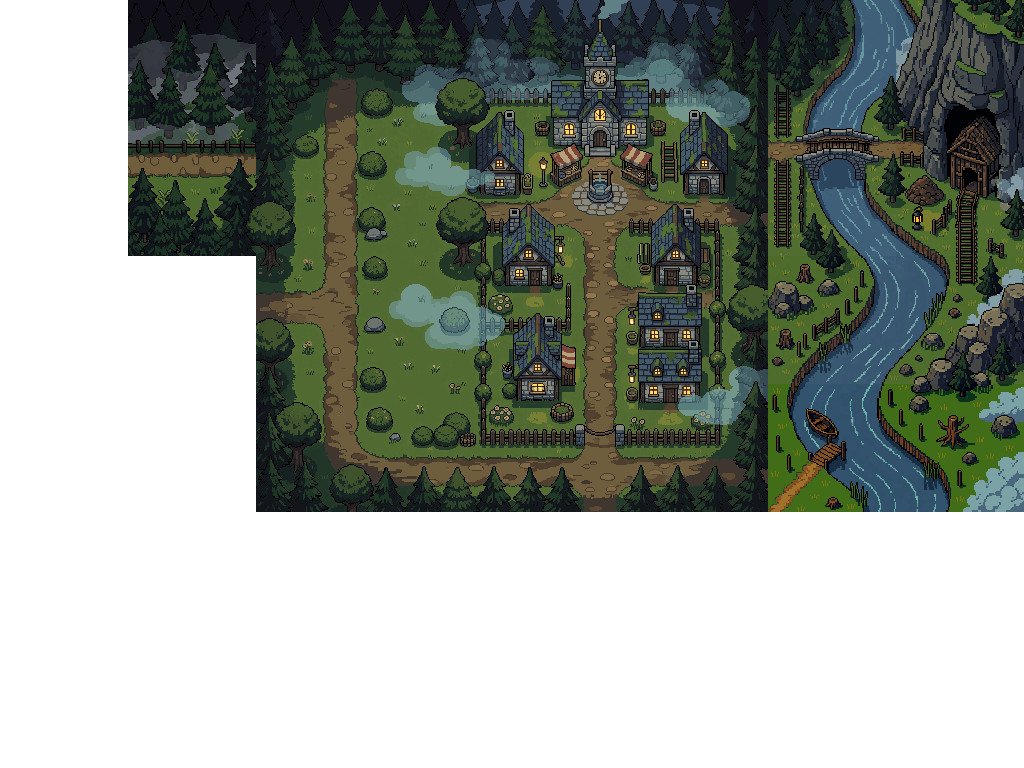
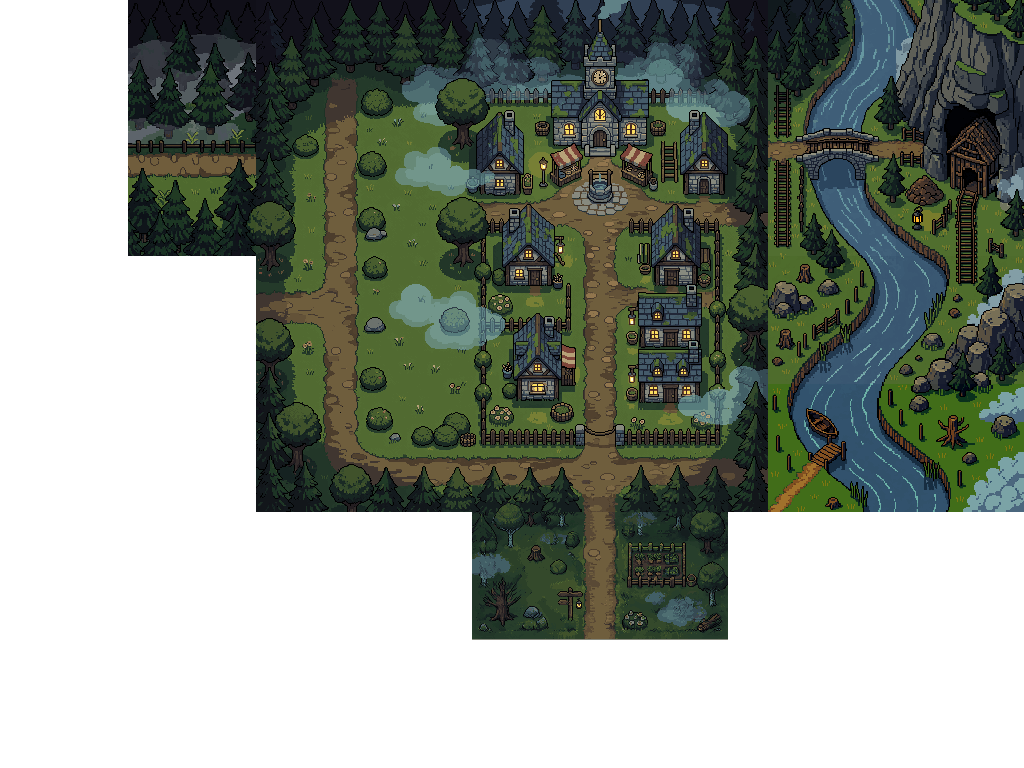
M2b: inpainting redo with an overlapping mask joins the village
Mask reaching into the existing pine row, the street's position and dark
ground in the prompt: no brightness step and the road continues. Piece
added to the map.

Claude-Session: https://claude.ai/code/session_01Dr9VTr1kWuBucyRkwibyJ7

Changed region(s): [[0.4375, 0.625, 0.7188, 0.8438]]

diff --git a/docs/HANDOFF.md b/docs/HANDOFF.md
@@ -20,7 +20,7 @@ M2 re-planned on 2026-11-14 (D-035 to D-038; PR #13, which also synced AI-Master
 
 ## Just done
 
-- 2026-11-16 Session on the "Network" environment (PixelLab token works; `/v1/balance` answered 200). Morgan fixed the map size: 1024 × 768 art pixels, zoom steps 1×, 2×, 3× (D-047 amended; the phone's ~2.6 screen pixels per CSS pixel is an assumption to check). Then a 2-generation grow trial (`edit_image_pixen` outpainting from mock-up 1, `art/pixellab/grow1/`): style holds and new-to-new joins hide, but the heart's cut-off buildings still end at a straight line. Trial 2 (`grow2/`, 2 generations): growing from open ground joins cleanly, but repainting mock-up 1's edge leaves a seam. Morgan chose a new centre, then grow; two centre tries (`map1/`) both miss. Morgan chose to grow centre 2: east side done (`map2/`, river, bridge, mine), west copies centre 2's lane strip; Morgan picked A (carry on); 4 more used, 1 kept (north-west forest), 3 copied their neighbours; stopped with 8 left. Morgan picked C (look into better tools, spend nothing): masked inpainting (`inpaint_image_pro_flash`, 9 generations a 256 px piece) fits best; plan prices unreadable. Morgan picked A, a free inpainting test: PixelLab refused it on the trial (8 left, a call needs 9), nothing charged; inputs ready in `art/pixellab/inpaint1/`. Morgan bought PixelLab Pixel Apprentice (Tier 1, 2,000 generations to 2026-12-16); the inpainting test drew new ground but does not join (hard edge, road misses the street; Morgan: "Those don't match up at all"; LESSONS 2026-11-16). 1,991 left. Waiting on Morgan: redo it with an overlapping mask (A) or stop (B) on the review page https://claude.ai/artifact/VrSULVpxTb63nqH1YRbjA1; art results always go on such a page (pixellab guide, section 4).
+- 2026-11-16 Session on the "Network" environment (PixelLab token works; `/v1/balance` answered 200). Morgan fixed the map size: 1024 × 768 art pixels, zoom steps 1×, 2×, 3× (D-047 amended; the phone's ~2.6 screen pixels per CSS pixel is an assumption to check). Then a 2-generation grow trial (`edit_image_pixen` outpainting from mock-up 1, `art/pixellab/grow1/`): style holds and new-to-new joins hide, but the heart's cut-off buildings still end at a straight line. Trial 2 (`grow2/`, 2 generations): growing from open ground joins cleanly, but repainting mock-up 1's edge leaves a seam. Morgan chose a new centre, then grow; two centre tries (`map1/`) both miss. Morgan chose to grow centre 2: east side done (`map2/`, river, bridge, mine), west copies centre 2's lane strip; Morgan picked A (carry on); 4 more used, 1 kept (north-west forest), 3 copied their neighbours; stopped with 8 left. Morgan picked C (look into better tools, spend nothing): masked inpainting (`inpaint_image_pro_flash`, 9 generations a 256 px piece) fits best; plan prices unreadable. Morgan picked A, a free inpainting test: PixelLab refused it on the trial (8 left, a call needs 9), nothing charged; inputs ready in `art/pixellab/inpaint1/`. Morgan bought PixelLab Pixel Apprentice (Tier 1, 2,000 generations to 2026-12-16); the inpainting test drew new ground but does not join (hard edge, road misses the street; Morgan: "Those don't match up at all"; LESSONS 2026-11-16). Morgan picked the redo: an overlapping mask joins (no brightness step, road continues; `inpaint2/`), now in `map2/map.png`. 1,982 left. Waiting on Morgan: the rest of the south row then show (A), one at a time (B) or stop (C) on the review page https://claude.ai/artifact/VrSULVpxTb63nqH1YRbjA1; art results always go on such a page (pixellab guide, section 4).
 - 2026-11-15 M2b PixelLab (cloud session, branch `claude/vibrant-davinci-m5m64c`, cut from `m2b-art-workshop`): token is a network secret on the "Network" environment (use PixelLab's "Claude Code" token). Test 1 grass-to-dirt tileset; the town map rebuilt wide (`art/town_wide.py`, D-047 amended four times: scroll, north forest, mine upper right, open south, forest road north-west, organic town, dense north and sparse fringe). Morgan: still not the vibe. Three higher-detail mock-ups (`art/pixellab/mock_hd/`); Morgan picked mock-up 1 as the art direction (D-048, supersedes D-046). Style tests: the same pixen wording holds the style (`art/pixellab/style_test/`). First map strip west/heart/east (`art/pixellab/strip1/`): sections match, joins show; strip 2 hides the joins on a tree belt and the river, colour-matched (`art/pixellab/strip2/_strip_graded.png`). Morgan: "Not perfect but it's ok"; the 3 realism fixes were not run. Goal recorded in D-047: one seamless map that scrolls and zooms (whole town zoomed out). Open: how to make one seamless map in PixelLab (strips join badly; options in the workshop log). 26 generations left. Draft PR: https://github.com/DdraigFawr13/Silvanus/pull/17 (carries all of `m2b-art-workshop`); PR #16's "D-041" clashes with the art D-041, renumber whichever merges second. Working guide: `docs/workshop/pixellab-guide.md`. Details: `docs/workshop/m2b-dragonscape.md`.
 - 2026-11-14 M2b art: the town map from the ChatGPT pieces is "not quite there yet" (Morgan); Morgan chose PixelLab and a cloud session. The art workspace moved into `art/` (outputs pixel-identical to the PC copies), `.mcp.json` added (token from `PIXELLAB_API_TOKEN`, never in the repo).
 - Earlier entries are in `docs/archive/handoff-2026-11.md`.
@@ -29,7 +29,7 @@ M2 re-planned on 2026-11-14 (D-035 to D-038; PR #13, which also synced AI-Master
 
 1. Morgan's M2a test (J7): a new town, check-ins over a day, the Village in about 8 real hours, upgrades found without help. Record their answer here in their words, then set `docs/specs/m2a-pace.md` to Shipped on the next work branch. Opening their old town first jumps it forward up to 8 real hours.
 2. M2e Choices in a new session: spec it with `write-spec` from step 3 (input: D-040 and the `play1`, `play2`, `playfinal` pages), mock-ups first for the board and pins, then build on a new branch from `main`. Mind `m2b-art-workshop` also edits HANDOFF: merge, don't overwrite.
-3. M2b Art workshop (D-037), merged so far in PR #17 (https://github.com/DdraigFawr13/Silvanus/pull/17). Size 1024 × 768 and zoom 1×/2×/3× fixed (D-047); grow trials, new centres and the map's east and north-west done (18 generations, see the workshop log). Next: Morgan picks how to grow the map (options and costs at the end of `docs/workshop/m2b-dragonscape.md`; 1,991 generations left on Tier 1; read `docs/workshop/pixellab-guide.md` first; ask before every paid call). The PixelLab token is a network secret on the "Network" cloud environment; `.mcp.json` still names `PIXELLAB_API_TOKEN`, which is unset, but the proxy injects the token. Still open: D-041 Proposed and partly superseded by D-048; the UI_STYLE art section waits for the final art. Work on a new branch from `main`; `m2b-art-workshop` is fully contained in `main` after #17 and can be deleted with Morgan's OK.
+3. M2b Art workshop (D-037), merged so far in PR #17 (https://github.com/DdraigFawr13/Silvanus/pull/17). Size 1024 × 768 and zoom 1×/2×/3× fixed (D-047); grow trials, new centres and the map's east and north-west done (18 generations, see the workshop log). Next: Morgan picks how to grow the map (options and costs at the end of `docs/workshop/m2b-dragonscape.md`; 1,982 generations left on Tier 1; read `docs/workshop/pixellab-guide.md` first; ask before every paid call). The PixelLab token is a network secret on the "Network" cloud environment; `.mcp.json` still names `PIXELLAB_API_TOKEN`, which is unset, but the proxy injects the token. Still open: D-041 Proposed and partly superseded by D-048; the UI_STYLE art section waits for the final art. Work on a new branch from `main`; `m2b-art-workshop` is fully contained in `main` after #17 and can be deleted with Morgan's OK.
 4. Still open: Morgan's phone tests from S1 and S2 ("Update ready" and Reload; build a Woodcutter's camp, close the app, come back), S3 (switch the Mine to stone; let the Workshop run out of ore overnight) and S4 (pin someone to a bad job and read why morale falls). Record answers here.
 5. The repo has auto-merge off: merge by hand once the ready CI run is green, and do not push and mark ready within the same few seconds.
 6. Phobos: Morgan will send an integration plan "in the next couple of days" (parked, D-035).

diff --git a/docs/workshop/m2b-dragonscape.md b/docs/workshop/m2b-dragonscape.md
@@ -299,3 +299,11 @@ Morgan bought PixelLab's Pixel Apprentice plan (Tier 1): 2,000 generations a cyc
 - Flaws: the new road sits about 100 px left of the village street's gap; a slight line where the village's pine row ends. Next pieces state the road's position.
 - Not yet pasted into `map2/map.png`; the trial composite is `inpaint1/_map_test.png`.
 - Correction (2026-11-16, after Morgan: "Those don't match up at all"): the join is a hard straight edge, not "a slight line". Rows just above it average 31-32 brightness and rows just below 57-58 (mean of R, G, B across x 384-640); centre 2 darkens towards its own bottom edge, so the new ground is far lighter. Pine tops and mist are cut along it. The village street's gap is at about x 597 and the new road at about x 502, so the street never reaches the road. The review page's old/new pair also came from windows 128 px apart, not the same spot. Fix to try: a mask that overlaps the bottom 32 px of the village's pine row so the join itself is redrawn, the road's x given, and darker ground asked for.
+
+## Inpainting redo: overlapping mask (2026-11-16)
+
+Morgan picked A, redo with the three changes. `inpaint_image_pro_flash`, 9 generations, 1,982 left; files and prompt in `art/pixellab/inpaint2/`; pasted into `map2/map.png` at x 472-728, y 480-640. Source: AI-generated with PixelLab by Claude for Morgan, 2026-11-16.
+
+- The mask reached 32 px into the village's pine row; the prompt gave the street's x (104-148 in the window) and asked for the same dark ground.
+- Joins: unmasked pixels identical (image difference). Mean brightness across x 472-728: 69 at y 476, 61 at y 479, 63 at y 480 (first new row), 58 at y 483: no step (the first test was 31 against 57). Dirt measured at x 579-620 on y 490, 592-607 on y 512, 585-612 on y 620: the street runs on through the pine row and off the bottom edge, narrowing to about 16 px between the pines.
+- Flaws: the village lane's lower edge is now a straight line along y 480 either side of the road; the piece's left and right edges meet blank map and are untested.
